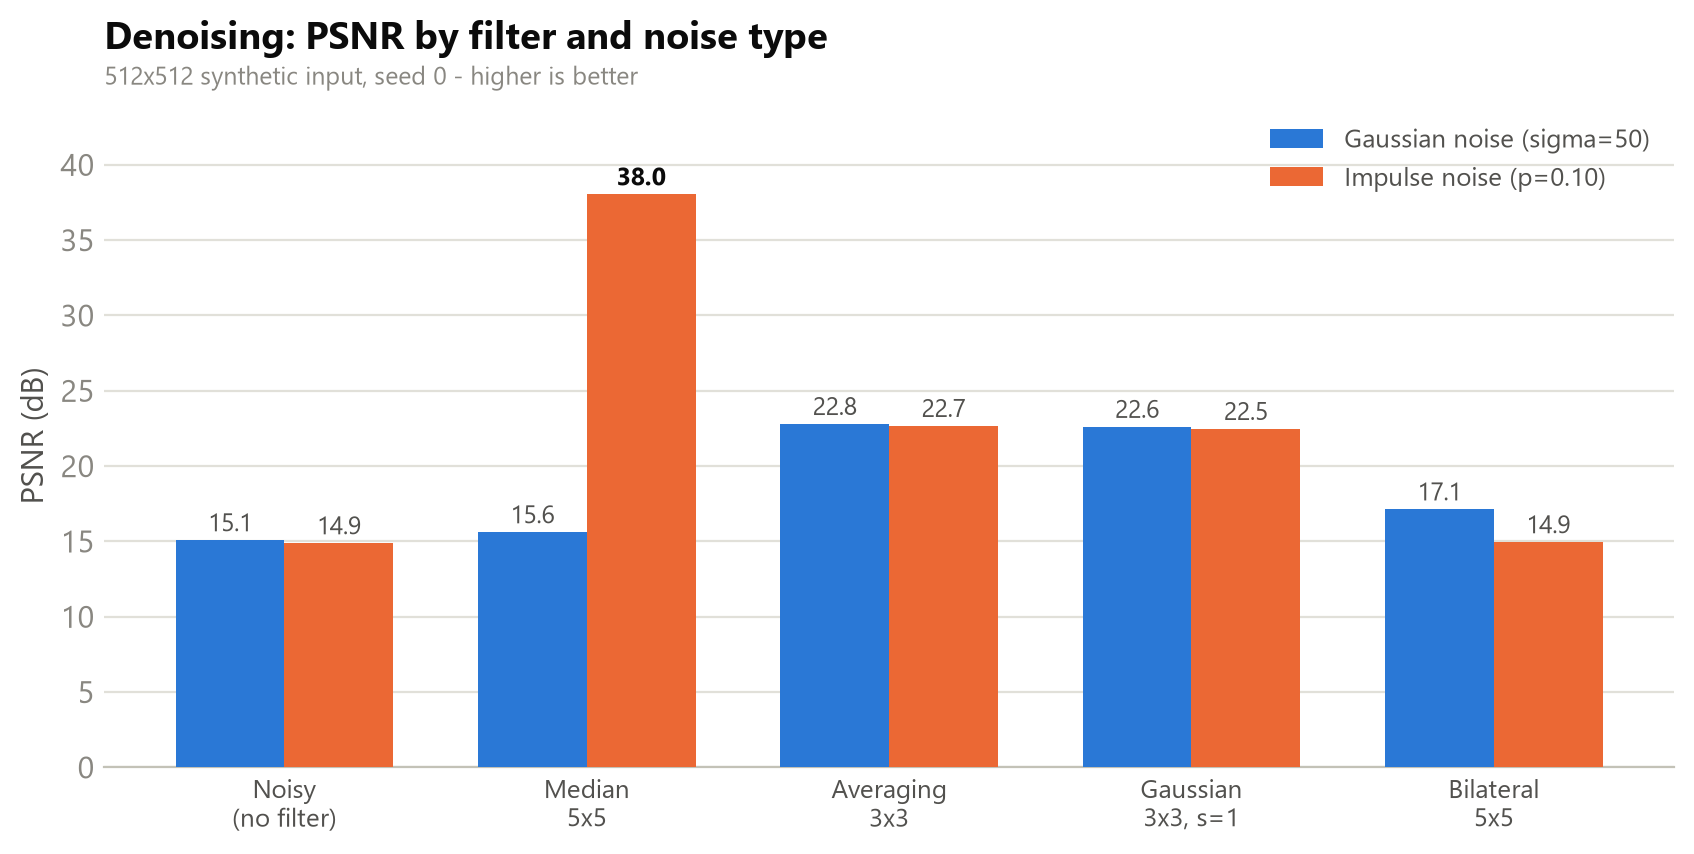
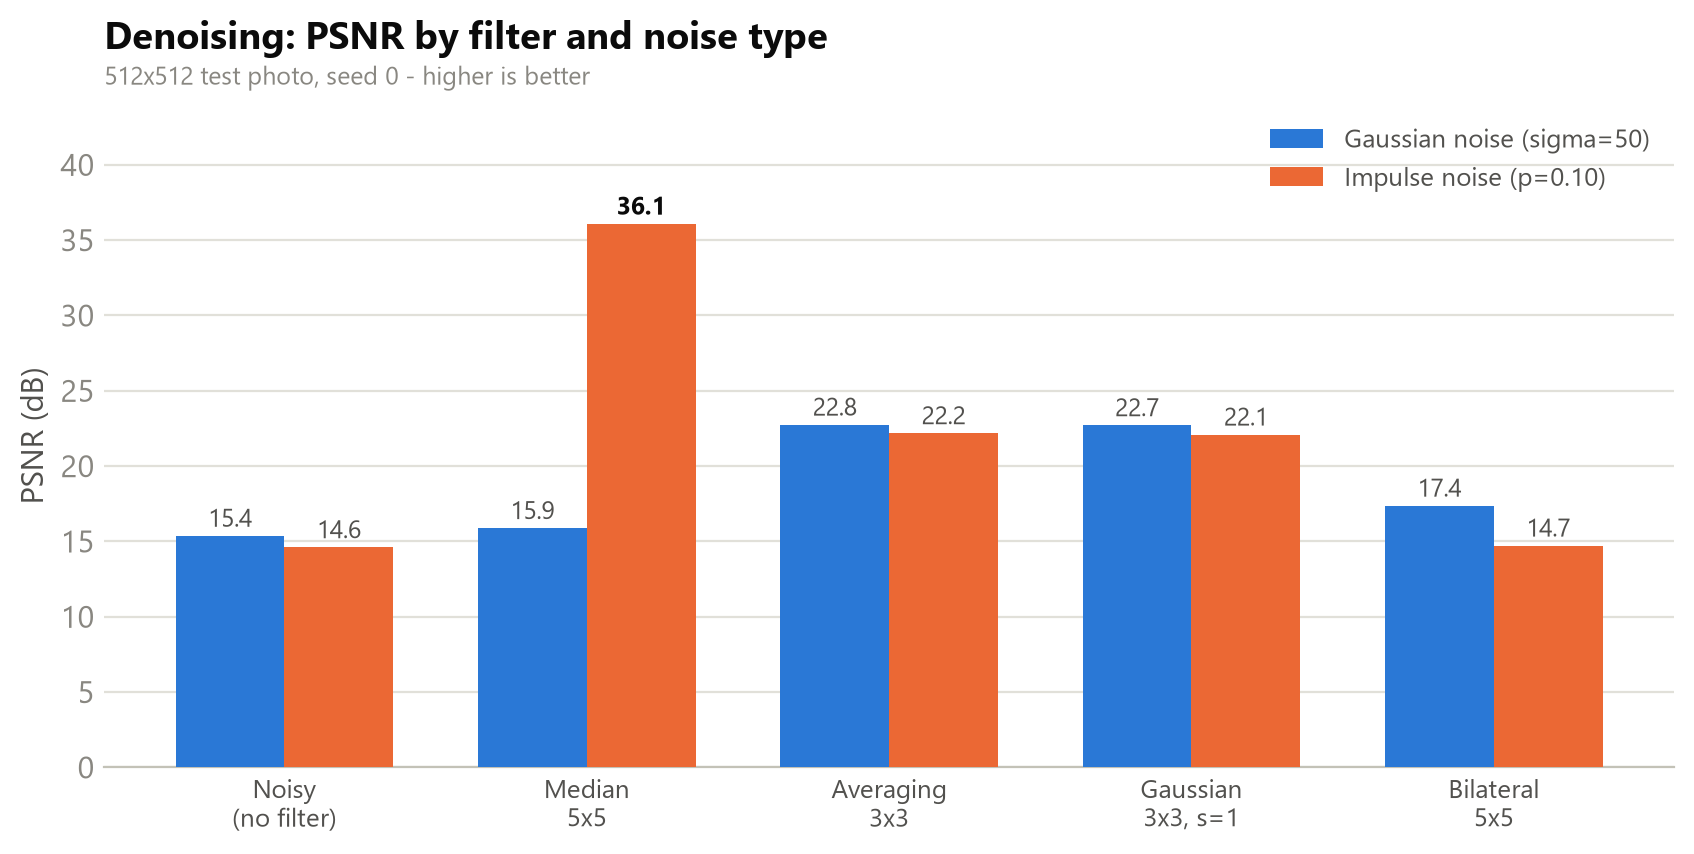
Replace synthetic test input with a real photo; rerun benchmarks and update results

diff --git a/scripts/02_reconstruction.py b/scripts/02_reconstruction.py
@@ -41,8 +41,8 @@ from restoration import (
     gradient_choose,
 )
 
-# Default: the committed deterministic 512x512 synthetic test image.
-DEFAULT_IMAGE = os.path.join("results", "input_synthetic.png")
+# Default: the committed 512x512 test image.
+DEFAULT_IMAGE = os.path.join("results", "input_dog.png")
 
 # Patch (grid) size shared by both pipelines.
 K_BASE = 4

diff --git a/scripts/01_denoising.py b/scripts/01_denoising.py
@@ -32,8 +32,8 @@ from restoration import (
     bilateral_filter,
 )
 
-# Default: the committed deterministic 512x512 synthetic test image.
-DEFAULT_IMAGE = os.path.join("results", "input_synthetic.png")
+# Default: the committed 512x512 test image.
+DEFAULT_IMAGE = os.path.join("results", "input_dog.png")
 
 
 def parse_args():

diff --git a/README.md b/README.md
@@ -25,8 +25,8 @@ and color conversion, and Matplotlib only for visualization.
 
 ## Results
 
-Both scripts run on the committed deterministic 512×512 synthetic test image
-([`results/input_synthetic.png`](results/input_synthetic.png)) with `--seed 0`,
+Both scripts run on the committed 512×512 test photo
+([`results/input_dog.png`](results/input_dog.png)) with `--seed 0`,
 so every number below is reproducible with the commands in **Usage**.
 
 ### 1. Denoising (PSNR, dB — higher is better)
@@ -36,19 +36,19 @@ specialty rather than a single cherry-picked pairing:
 
 | Filter | Gaussian σ=50 | Impulse p=0.10 |
 | --- | ---: | ---: |
-| Noisy (no filter) | 15.07 | 14.87 |
-| Median 5×5 | 15.60 | **38.03** |
-| Averaging 3×3 | **22.79** | 22.66 |
-| Gaussian 3×3 σ=1 | 22.60 | 22.46 |
-| Bilateral 5×5 | 17.12 | 14.94 |
+| Noisy (no filter) | 15.37 | 14.61 |
+| Median 5×5 | 15.88 | **36.09** |
+| Averaging 3×3 | **22.75** | 22.18 |
+| Gaussian 3×3 σ=1 | 22.71 | 22.09 |
+| Bilateral 5×5 | 17.37 | 14.72 |
 
 ![denoising PSNR](results/psnr_denoising.png)
 
 - The **median** filter (implemented with 0/255 impulse detection) is the clear
-  impulse-noise specialist: **+23.2 dB** over the noisy input, while leaving
+  impulse-noise specialist: **+21.5 dB** over the noisy input, while leaving
   Gaussian noise almost untouched.
 - **Linear smoothing** (averaging / Gaussian kernel) is the better choice for
-  Gaussian noise (~+7.6 dB) but cannot remove impulse outliers.
+  Gaussian noise (~+7.4 dB) but cannot remove impulse outliers.
 - The **bilateral** filter preserves edges by design; with a conservative range
   sigma it trades PSNR for edge sharpness on this heavy (σ=50) noise.
 
@@ -65,21 +65,21 @@ fills the gaps with sparse expand + neighborhood-weighted interpolation:
 
 | Pipeline | 256 level | 512 level |
 | --- | ---: | ---: |
-| Baseline (random patches + bilinear) | 35.07 | 27.82 |
-| **Ours / GAPS** (gradient patches + custom fill) | **40.89** | **30.20** |
+| Baseline (random patches + bilinear) | 28.01 | 23.39 |
+| **Ours / GAPS** (gradient patches + custom fill) | **33.30** | **26.60** |
 
 ![reconstruction PSNR](results/psnr_reconstruction.png)
 
-GAPS beats the equal-budget baseline at both pyramid levels: **+5.8 dB** at
-256 and **+2.4 dB** at 512.
+GAPS beats the equal-budget baseline at both pyramid levels: **+5.3 dB** at
+256 and **+3.2 dB** at 512.
 
 ## Test image
 
 The original report used two local test images (`lena.bmp` for denoising and a
 UAV frame `4611.png` for reconstruction); neither is redistributed here. To
-keep the pipeline reproducible with no external data, a deterministic 512×512
-synthetic image is committed at `results/input_synthetic.png` and used as the
-default input. You can still pass your own image:
+keep the pipeline reproducible with no external data, a 512×512 test photo
+(center-cropped and resized) is committed at `results/input_dog.png` and used
+as the default input. You can still pass your own image:
 
 ```bash
 python scripts/01_denoising.py --image data/your_image.png
